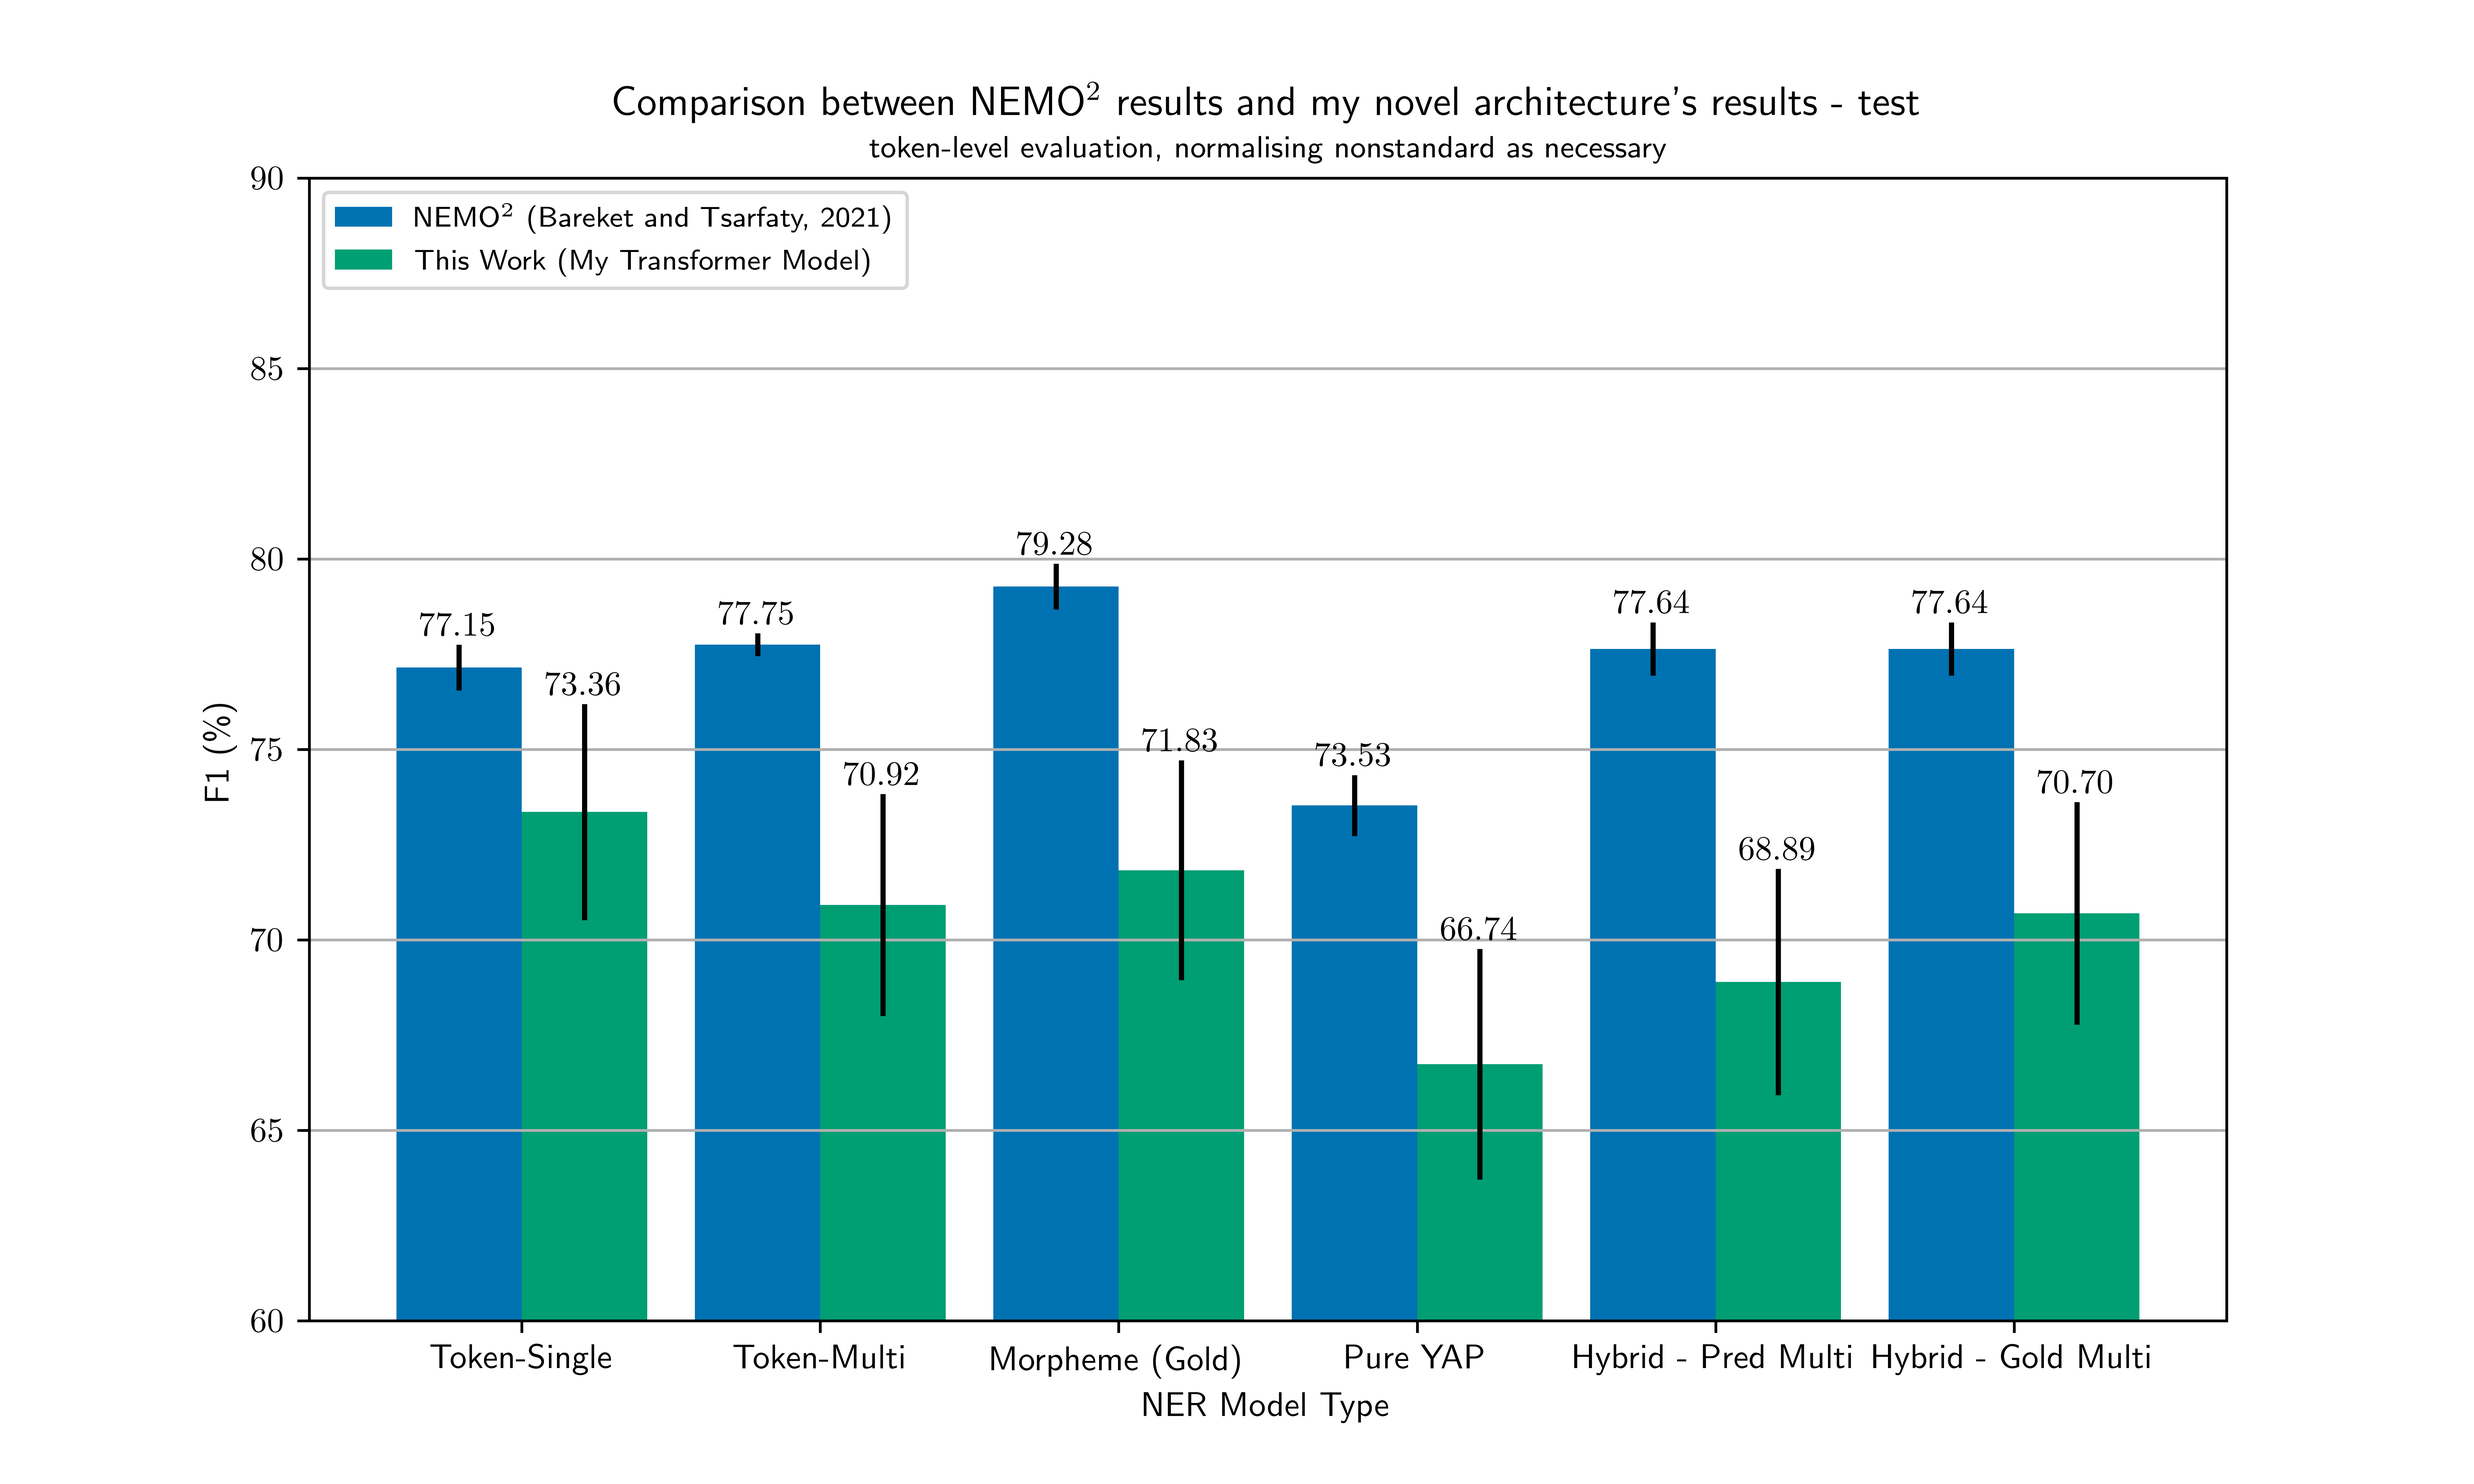
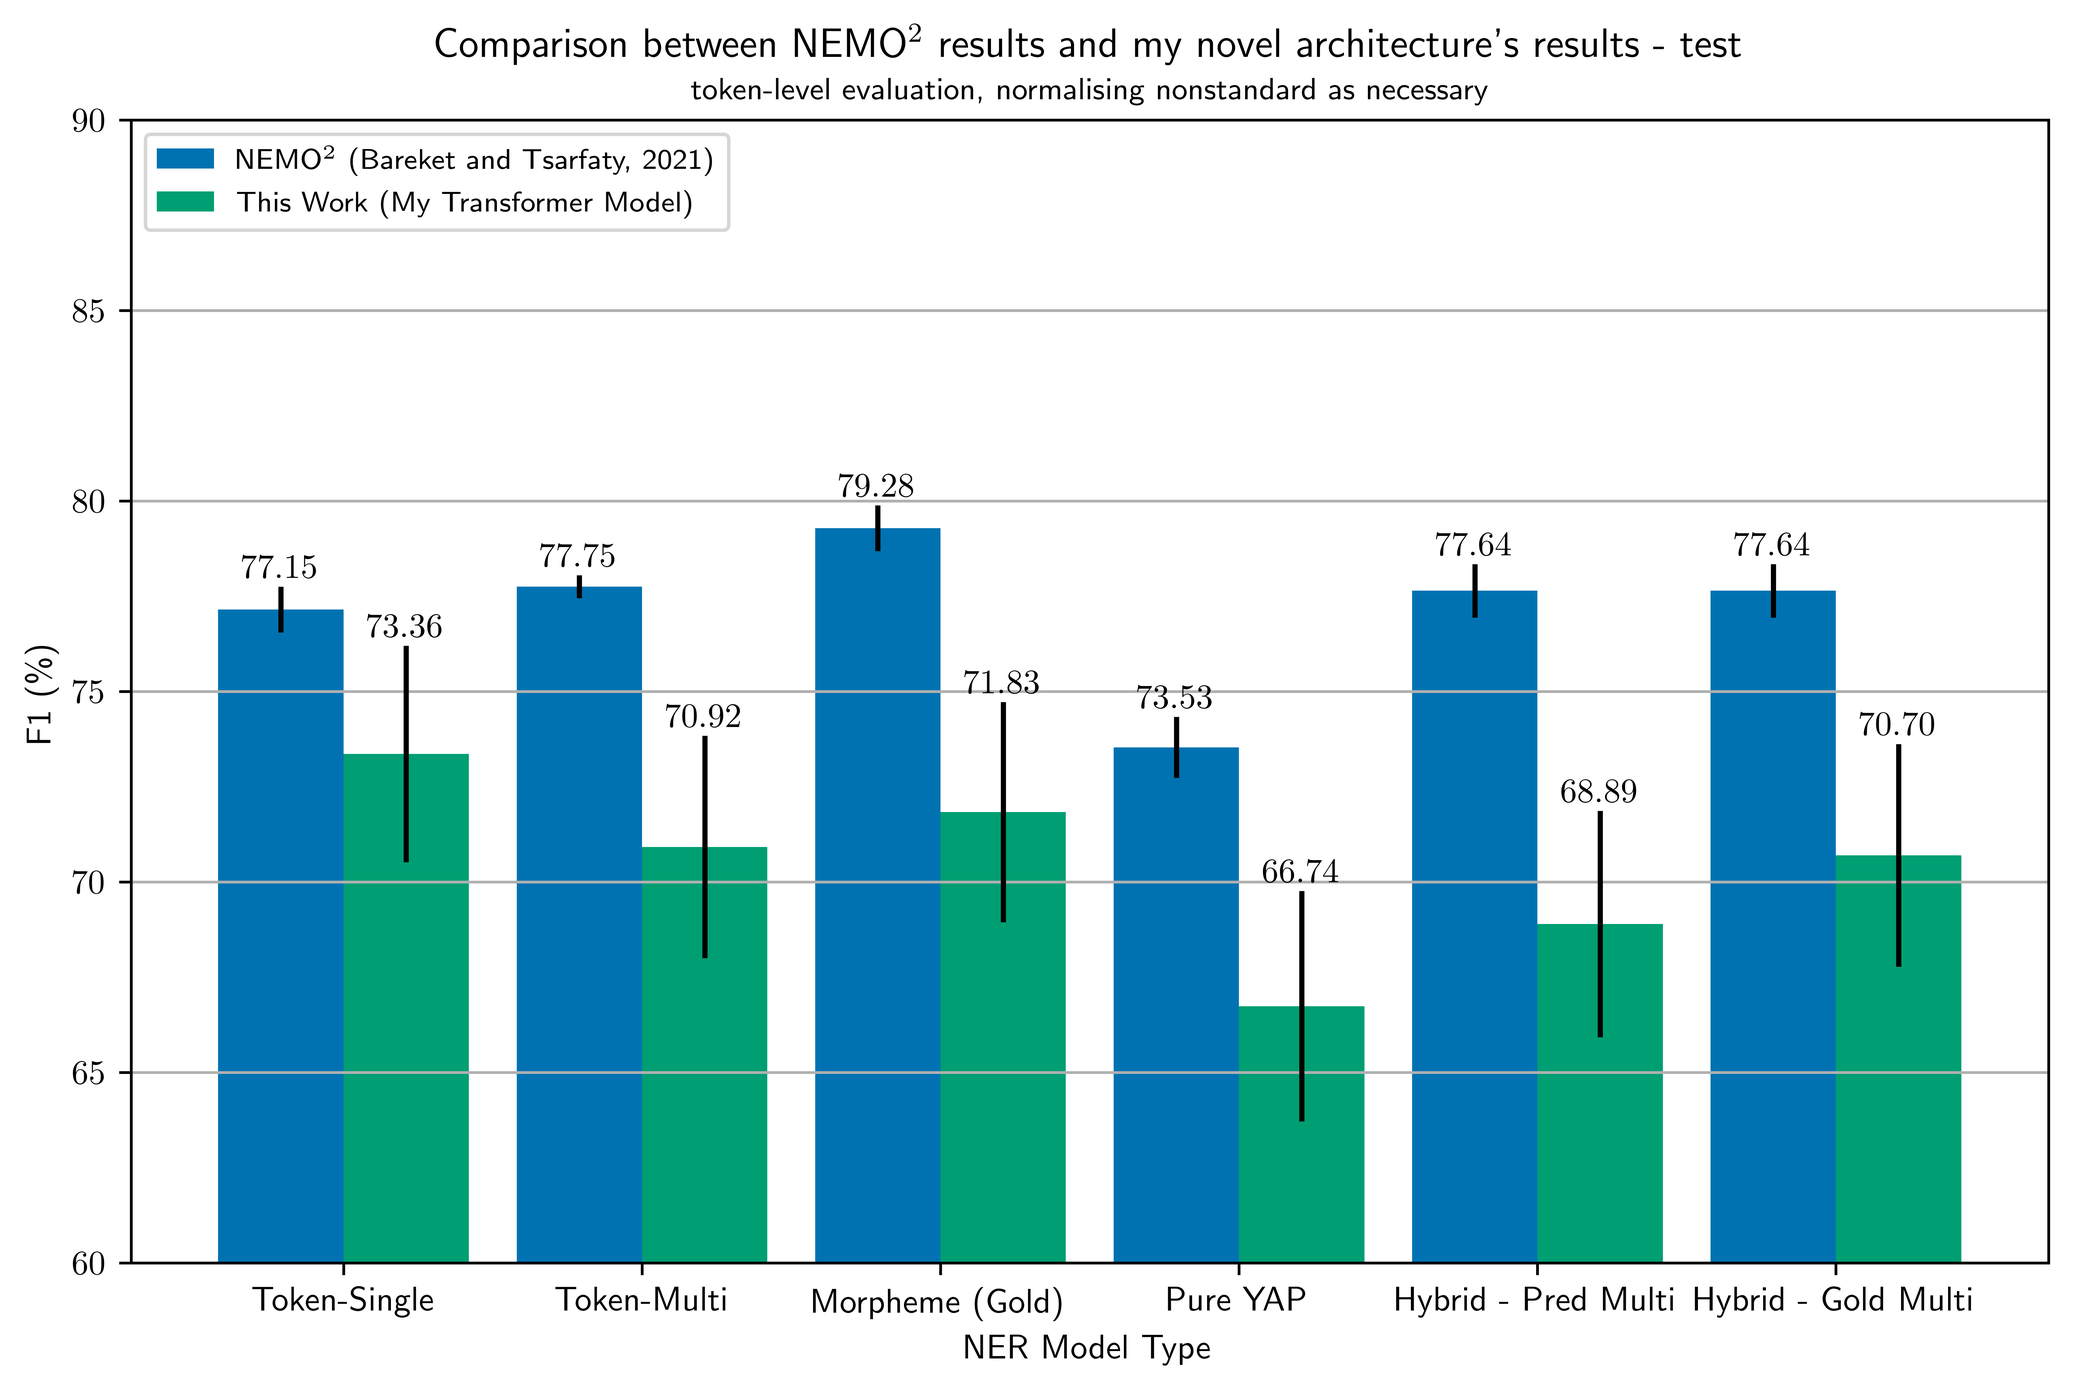
trim figs

diff --git a/utils/eval/graphing/comp.py b/utils/eval/graphing/comp.py
@@ -293,9 +293,12 @@ def std_test_all_in_one():
                     comp_yerr=[norm_approx_int(f1, CONFIDENCE, TEST_NUM_SPANS) * 100 for f1 in my_values],
                     orig_yerr=[0.6, 0.3, 0.6, 0.8, 0.7, 0.7],
                     # save=None,
-                    save='graphs/standard/test_all_in_one.png',
+                    save=None,
                     figax=figax,
                     bar_width=0.07)
+    
+    figax[0].savefig('graphs/standard/test_all_in_one.png', bbox_inches='tight', dpi=800)
+    
     
     
 def trn_test_all_in_one():
@@ -324,10 +327,11 @@ def trn_test_all_in_one():
                     comp_yerr=[norm_approx_int(f1, CONFIDENCE, TEST_NUM_SPANS) * 100 for f1 in my_values],
                     orig_yerr=[0.6, 0.3, 0.6, 0.8, 0.7, 0.7],
                     # save=None,
-                    save='graphs/transformer/test_all_in_one.png',
+                    save=None,
                     figax=figax,
                     bar_width=0.07)
     
+    figax[0].savefig('graphs/transformer/test_all_in_one.png', bbox_inches='tight', dpi=800)
     
     
     
@@ -346,5 +350,5 @@ if __name__ == '__main__':
     # trn_dev()
     # trn_test()
     std_test_all_in_one()
-    # trn_test_all_in_one()
+    trn_test_all_in_one()
     # plt.show()
